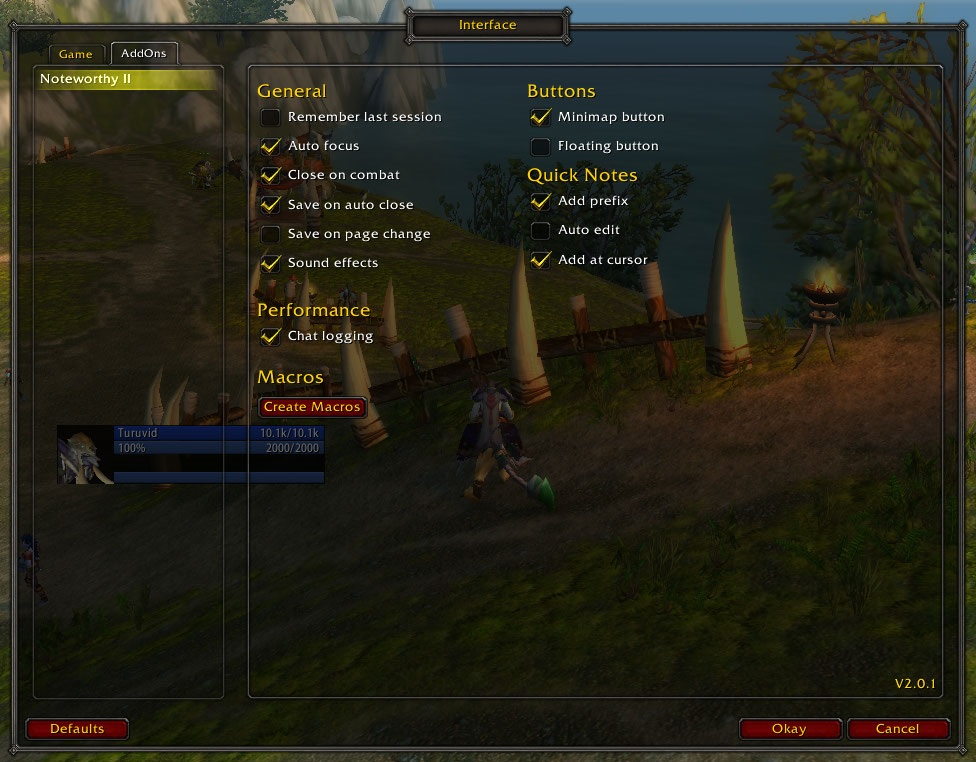
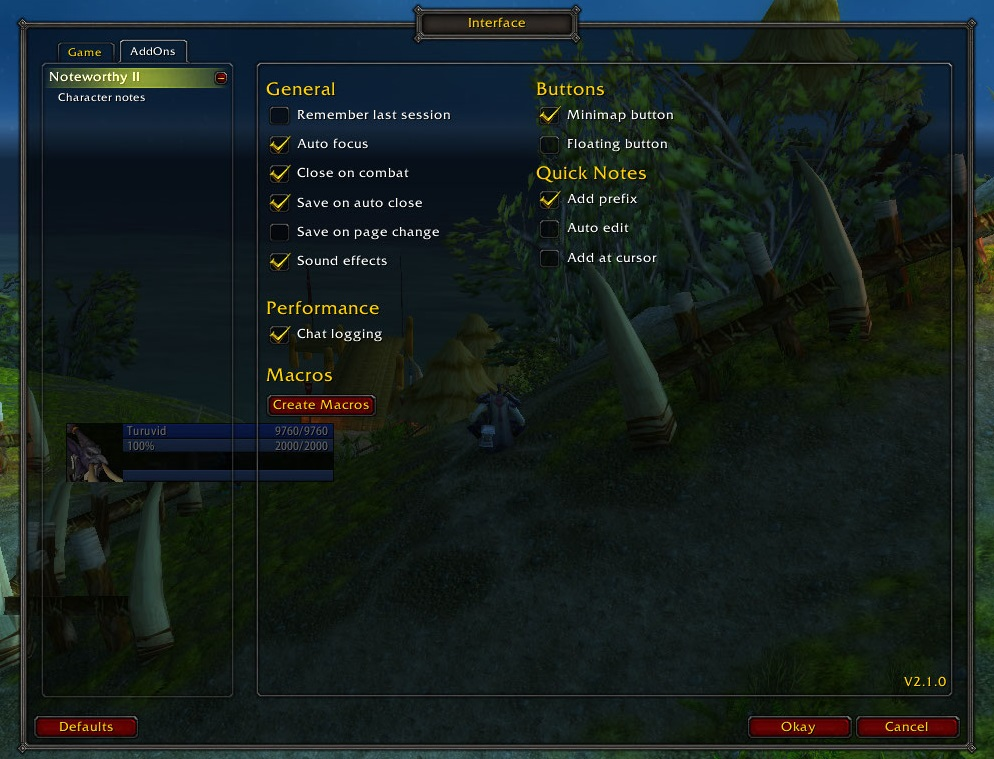
Update readme, changelog and screenshots.

diff --git a/README.md b/README.md
@@ -17,7 +17,7 @@ Noteworthy II is a feature rich, configurable notepad with full LDB
 support.
 
 Overview of features:
-- Separate notes page for each character plus a Shared and Quick Notes
+- Separate notes page for each character with advanced management options, plus a Shared and Quick Notes
 page (see below).
 - All notes pages are accessible by all characters.
 - Drag & drop items, spells and macros, creating linkable tooltips
@@ -45,6 +45,7 @@ Logo and banner made by [Alex](mailto:aleksandar.micic028@gmail.com).
 <img src="https://raw.githubusercontent.com/28/NoteworthyII/master/doc/img/screen_shared.jpg" alt="Noteworthy II shared notes page" title="Noteworthy II shared notes page" width="200" align="left"/>
 <img src="https://raw.githubusercontent.com/28/NoteworthyII/master/doc/img/screen_quick.jpg" alt="Noteworthy II quick notes page" title="Noteworthy II quick notes page" width="200"/>
 <img src="https://raw.githubusercontent.com/28/NoteworthyII/master/doc/img/screen_settings.jpg" alt="Noteworthy II settings page" title="Noteworthy II settings page" width="200" align="left"/>
+<img src="https://raw.githubusercontent.com/28/NoteworthyII/master/doc/img/screen_settings_notes.jpg" alt="Noteworthy II notes settings page" title="Noteworthy II notes settings page" width="200" align="left"/>
 <img src="https://raw.githubusercontent.com/28/NoteworthyII/master/doc/img/screen_reminder.jpg" alt="Noteworthy II reminder" title="Noteworthy II reminder" width="200" align="left"/>
 <img src="https://raw.githubusercontent.com/28/NoteworthyII/master/doc/img/screen_minimap.jpg" alt="Noteworthy II icon on the minimap" title="Noteworthy II icon on the minimap" width="200"/>
 
@@ -140,6 +141,11 @@ Logo and banner made by [Alex](mailto:aleksandar.micic028@gmail.com).
 	- Enabled: If notepad opened on quick notes tab, quick notes will be inserted at cursor position.
 	  Note that when added this way, you must manually Save any changes to the text.
 	- Disabled: Quick notes will always be added at the top and will be automatically saved.
+- Settings page/Character notes - Interface/AddOns/Noteworthy II/Character Notes:
+  - Migrate notes: Migrate notes from one character from drop down menu to another character from drop down menu.
+    - Override checkbox: Override the target character notes
+    - Preserve origin checkbox: Preserve the origin character notes
+  - Delete notes: Delete notes for selected character from the drop down menu (Character which notes were deleted will be recreated upon logon, but with placeholder text).
 
 ## Installation
 

diff --git a/doc/CHANGELOG.md b/doc/CHANGELOG.md
@@ -1,5 +1,11 @@
 # Change log
 
+## Unreleased
+- General
+  - Migrate settings page to Interface/AddOns game menu
+  - Introduce character notes migration feature
+  - Introduce character notes deletion feature 
+
 ## v2.0.1
 - General
   - Update game client version to Shadowlands
